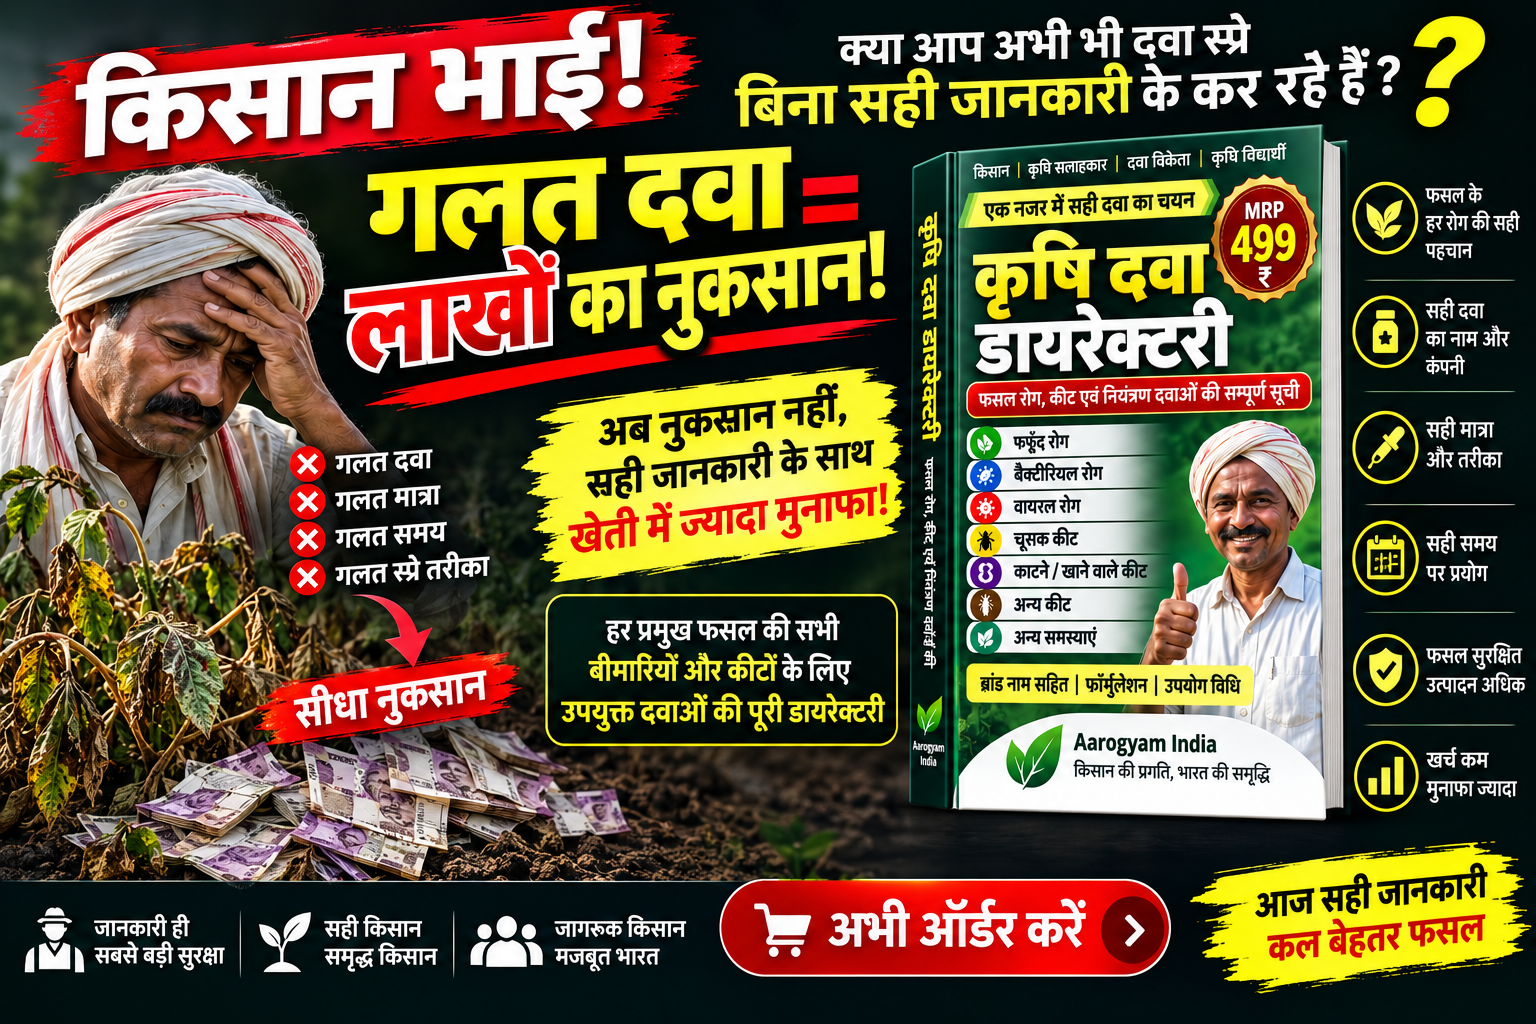
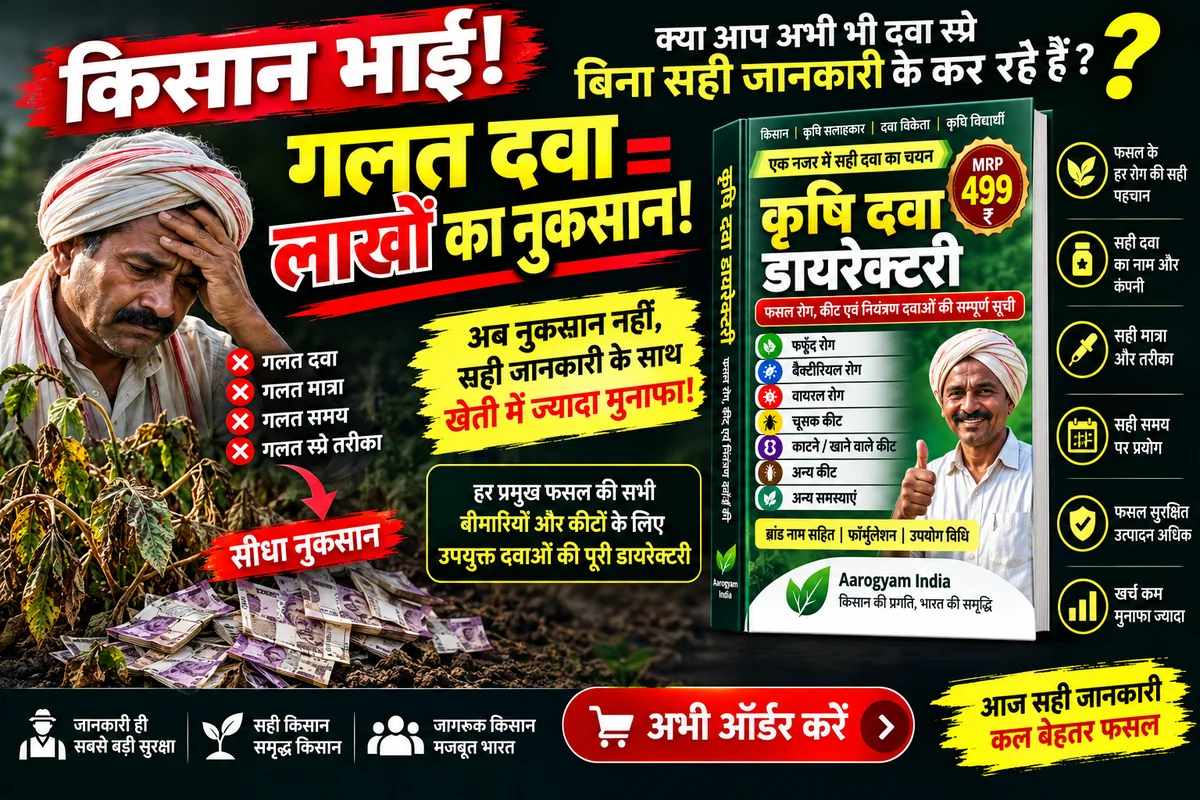
fix(social-share): optimize BK016 and BK018 OG image sizes, add JPG companions, and enhance WhatsApp crawler compatibility

diff --git a/api/share.js b/api/share.js
@@ -720,17 +720,38 @@ module.exports = async function handler(req, res) {
     const finalTitle = (bookData.og_title || bookData.hero?.title || queryTitle || 'Aarogyam India eBook Practical Guide').trim();
     const finalDesc = (bookData.og_description || bookData.whatsapp_share_message || bookData.whatsapp_share_text || bookData.hero?.description || queryDesc || 'सम्पूर्ण Practical Guide। अभी विशेष छूट पर उपलब्ध।').slice(0, 200).trim();
     const rawImg = bookData.og_image || bookData.hero?.cover_image || bookData.hero?.banner_image || '/images/books/kharif-master-guide-2026-cover.webp';
-    const finalOgImage = rawImg.startsWith('http') ? rawImg : `${HOST_ORIGIN}${rawImg.startsWith('/') ? '' : '/'}${rawImg}`;
+    let finalOgImage = rawImg.startsWith('http') ? rawImg : `${HOST_ORIGIN}${rawImg.startsWith('/') ? '' : '/'}${rawImg}`;
     
+    // Permanent Failsafe for WhatsApp & Social Crawlers:
+    // Check if companion JPG version exists on disk for 100% WhatsApp crawler compatibility
+    let jpgFallbackUrl = null;
+    if (rawImg && rawImg.toLowerCase().endsWith('.webp')) {
+      const potentialJpg = rawImg.replace(/\.webp$/i, '.jpg');
+      const localJpgPath = path.join(process.cwd(), potentialJpg.startsWith('/') ? potentialJpg.slice(1) : potentialJpg);
+      if (fs.existsSync(localJpgPath)) {
+        jpgFallbackUrl = `${HOST_ORIGIN}${potentialJpg.startsWith('/') ? '' : '/'}${potentialJpg}`;
+      }
+    }
+
     let destUrl = `${HOST_ORIGIN}/ebooks/book-landing.html?id=${encodeURIComponent(bookData.id || lpId)}`;
     if (bookData.landingPage) {
       destUrl = bookData.landingPage.startsWith('http') ? bookData.landingPage : `${HOST_ORIGIN}${bookData.landingPage.startsWith('/') ? '' : '/'}${bookData.landingPage}`;
     }
+    if (queryShareId) {
+      destUrl += (destUrl.includes('?') ? '&' : '?') + `share_id=${encodeURIComponent(queryShareId)}`;
+    }
     
-    const canonicalShareUrl = `${HOST_ORIGIN}/api/share?id=${encodeURIComponent(bookData.id || lpId)}`;
+    const canonicalShareUrl = `${HOST_ORIGIN}/api/share?id=${encodeURIComponent(bookData.id || lpId)}${queryShareId ? '&share_id=' + encodeURIComponent(queryShareId) : ''}`;
 
     const userAgent = String(req.headers['user-agent'] || '');
     const isCrawler = isBotScraper(userAgent);
+    const isWhatsApp = /WhatsApp/i.test(userAgent);
+
+    // If requested by WhatsApp crawler and companion JPG exists, use JPG as primary for 100% preview reliability
+    let primaryOgImage = finalOgImage;
+    if (isWhatsApp && jpgFallbackUrl) {
+      primaryOgImage = jpgFallbackUrl;
+    }
 
     if (!isCrawler && !query.debug) {
       res.setHeader('Cache-Control', 'public, max-age=3600, s-maxage=86400, stale-while-revalidate=86400');
@@ -740,8 +761,8 @@ module.exports = async function handler(req, res) {
     res.setHeader('Cache-Control', 'public, max-age=300, s-maxage=300, stale-while-revalidate=86400');
     const cleanTitle = finalTitle;
 
-    const isWebp = finalOgImage.toLowerCase().endsWith('.webp');
-    const isPng = finalOgImage.toLowerCase().endsWith('.png');
+    const isWebp = primaryOgImage.toLowerCase().endsWith('.webp');
+    const isPng = primaryOgImage.toLowerCase().endsWith('.png');
     const imgMime = isWebp ? 'image/webp' : (isPng ? 'image/png' : 'image/jpeg');
 
     const html = `<!DOCTYPE html>
@@ -753,25 +774,31 @@ module.exports = async function handler(req, res) {
 
   <!-- Open Graph / WhatsApp & Facebook Crawlers -->
   <meta property="fb:app_id" content="966242223397117">
-  <meta property="og:type" content="article">
+  <meta property="og:type" content="website">
   <meta property="og:site_name" content="Aarogyam India">
   <meta property="og:title" content="${escapeHtml(finalTitle)}">
   <meta property="og:description" content="${escapeHtml(finalDesc)}">
-  <meta property="og:image" content="${escapeHtml(finalOgImage)}">
-  <meta property="og:image:secure_url" content="${escapeHtml(finalOgImage)}">
+  <meta property="og:image" content="${escapeHtml(primaryOgImage)}">
+  <meta property="og:image:url" content="${escapeHtml(primaryOgImage)}">
+  <meta property="og:image:secure_url" content="${escapeHtml(primaryOgImage)}">
   <meta property="og:image:type" content="${imgMime}">
   <meta property="og:image:width" content="1200">
   <meta property="og:image:height" content="630">
   <meta property="og:image:alt" content="${escapeHtml(finalTitle)}">
+  ${jpgFallbackUrl && jpgFallbackUrl !== primaryOgImage ? `<meta property="og:image" content="${escapeHtml(jpgFallbackUrl)}">
+  <meta property="og:image:url" content="${escapeHtml(jpgFallbackUrl)}">
+  <meta property="og:image:secure_url" content="${escapeHtml(jpgFallbackUrl)}">
+  <meta property="og:image:type" content="image/jpeg">` : ''}
   <meta property="og:url" content="${escapeHtml(canonicalShareUrl)}">
-  <link rel="image_src" href="${escapeHtml(finalOgImage)}">
+  <meta itemprop="image" content="${escapeHtml(primaryOgImage)}">
+  <link rel="image_src" href="${escapeHtml(primaryOgImage)}">
 
   <!-- Twitter Card Tags -->
   <meta name="twitter:card" content="summary_large_image">
   <meta name="twitter:site" content="@AarogyamIndia">
   <meta name="twitter:title" content="${escapeHtml(finalTitle)}">
   <meta name="twitter:description" content="${escapeHtml(finalDesc)}">
-  <meta name="twitter:image" content="${escapeHtml(finalOgImage)}">
+  <meta name="twitter:image" content="${escapeHtml(primaryOgImage)}">
   <link rel="canonical" href="${escapeHtml(canonicalShareUrl)}">
 
   <!-- Instant Client-Side Redirection for human visitors -->

diff --git a/js/universal-book-landing.js b/js/universal-book-landing.js
@@ -371,11 +371,14 @@
 
     // 4. Native Share Trigger (Mobile / Supported Browsers)
     if (navigator.share) {
-      navigator.share({
-        title: title,
-        text: promoText,
-        url: shareUrl
-      }).catch((err) => {
+      const shareData = { title: title };
+      if (promoText.includes(shareUrl)) {
+        shareData.text = promoText;
+      } else {
+        shareData.text = promoText;
+        shareData.url = shareUrl;
+      }
+      navigator.share(shareData).catch((err) => {
         if (err && err.name !== 'AbortError') {
           const isMobile = /Android|iPhone|iPad|iPod|Mobile/i.test(navigator.userAgent);
           const waUrl = isMobile 
